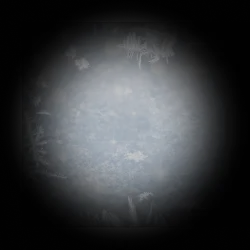
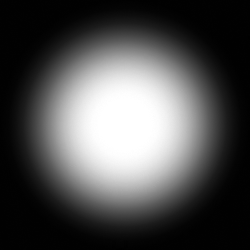
snow & winter toggle

diff --git a/site/style.css b/site/style.css
@@ -20,7 +20,7 @@ p, h1, h2, h3 { overflow-wrap: break-word; }
   --gray-line: rgba(0, 0, 0, 0.2);
   --gray-bg: rgba(0, 0, 0, 0.06);
   --text: #000;
-  --bg: #6ADCFF;
+  --bg: #FDDB29;
 }
 
 html {
@@ -42,6 +42,8 @@ body {
   :root { --cap-height: calc(1rem * 18 / 16); }
 }
 
+body.winter { --bg: #6ADCFF; }
+
 body, .page { min-height: calc(100svh - var(--gap) * 8); }
 body { margin: calc(var(--gap) * 4) 0; background-color: var(--bg); color: var(--text); }
 .page { display: flex; flex-direction: column; gap: calc(var(--gap) * 4); align-items: center; }
@@ -54,6 +56,8 @@ body { margin: calc(var(--gap) * 4) 0; background-color: var(--bg); color: var(-
 .menu > li.selected > a,
 .menu > li:hover > a { color: #000; border-bottom: var(--border) solid #000; }
 .menu > .spacer { flex-grow: 1; }
+div.winter { width: 26px; height: 26px; background-image: url("/i/snow.svg"); opacity: .3; cursor: pointer; }
+body.winter div.winter { opacity: 1; }
 .dark_mode, #darkModeGlow { align-self: center; width: 26px; height: 26px; border-radius: 13px; background-image: url("/i/dark_mode.svg"); background-size: 52px 52px; transition: background-position-x 100ms; cursor: pointer; }
 .dark_mode { opacity: .3; }
 .dark_mode:hover, body.dark .dark_mode { opacity: 1; }
@@ -63,7 +67,7 @@ body.dark #darkModeGlow { opacity: 1; }
 @media (any-hover: none) {
   .dark_mode, #darkModeGlow { display: none; }
 }
-.hamburger { position: relative; margin-left: -0.5em; }
+.hamburger { position: relative; }
 .hamburger input { display: none; }
 .hamburger label { display: block; width: 32px; height: 32px; background-image: url("/i/hamburger.svg"); background-size: 100%; opacity: .3; cursor: pointer; border: none; }
 .hamburger label:hover,
@@ -228,6 +232,7 @@ button:active, button[disabled] {
 /* SUBSCRIBE */
 .about { width: 96vw; max-width: calc(var(--width) + 50px); }
 .about_photo { float: left; width: 125px; height: 160px; margin-left: -150px; margin-top: -10px; background-image: url("/i/photo.webp"); background-size: 250px; background-blend-mode: multiply; background-color: var(--bg); }
+body.winter .about_photo { background-image: url("/i/photo_winter.webp"); }
 .about_photo:hover { background-position: 100%; }
 .about_inner { font-size: var(--font-small); padding: var(--gap) 25px; border: var(--border) solid var(--gray-line); border-radius: var(--radius); display: flex; flex-direction: column; gap: var(--gap); }
 .btn-action { text-decoration: none; background: var(--gray-bg); border: none; padding: 0px 7px; display: inline-block; border-radius: 4px; }
@@ -245,3 +250,9 @@ body.dark #flashlight { opacity: 1; }
 .pointer.m { background-position-x: 0; }
 .pointer.w { background-position-x: -100%; }
 .pointer.l { background-position-x: -200%; }
+
+/* SNOW */
+.snowflake { border-radius: 50%; background: #FFF; }
+@keyframes snow-fall {to{transform: translateY(calc(100vh + 200px));}}
+@keyframes snow-right {to{transform: translateX(-100vw);}}
+@keyframes snow-left {to{transform: translateX(100vw);}}

diff --git a/site/script.js b/site/script.js
@@ -228,3 +228,55 @@ window.addEventListener("load", (event) => {
       ptrConnect();
   });
 });
+
+
+/** Snow **/
+
+let snowflakeTimer;
+
+function createSnowflake() {
+  const snowflake = document.createElement('div');
+  snowflake.classList.add('snowflake');
+  const randomLeft = Math.random() * window.innerWidth;
+  const dist = Math.random();
+  const randomSize = 20 - dist * 15;
+  const randomDuration = 5 + dist * 10;
+  snowflake.style.position = 'fixed';
+  snowflake.style.left = `${randomLeft}px`;
+  snowflake.style.top = '-50px';
+  snowflake.style.width = `${randomSize}px`;
+  snowflake.style.height = `${randomSize}px`;
+  snowflake.style.fontSize = `${50 - dist * 30}px`;
+  snowflake.style.opacity = Math.random() * 0.5 + 0.25;
+  snowflake.style.pointerEvents = 'none';
+  snowflake.style.animation = `snow-fall ${randomDuration}s linear,
+    ${Math.random() > 0.5 ? "snow-left" : "snow-right"} ${50 + Math.random() * 50}s linear`;
+  document.body.appendChild(snowflake);
+  setTimeout(() => { snowflake.remove() }, randomDuration * 1000);
+}
+
+function updateWinterMode() {
+  if (document.body.classList.contains('winter')) {
+    localStorage.setItem('winter', 'true');
+    snowflakeTimer = setInterval(createSnowflake, Math.random() * 25 + 25);
+    flashlight.src = '/i/flashlight_winter.webp';
+  } else {
+    localStorage.setItem('winter', 'false');
+    clearInterval(snowflakeTimer);
+    snowflakeTimer = undefined;
+    flashlight.src = '/i/flashlight.webp';
+  }
+}
+
+window.addEventListener("load", (event) => {
+  const winter = localStorage.getItem('winter');
+  console.log(winter, winter === 'true', winter === null);
+  if (winter === 'true' || winter === null) {
+    document.body.classList.toggle('winter');
+    updateWinterMode();
+  }
+  document.querySelector('div.winter').onclick = function(e) {
+    document.body.classList.toggle('winter');
+    updateWinterMode();
+  }
+});
